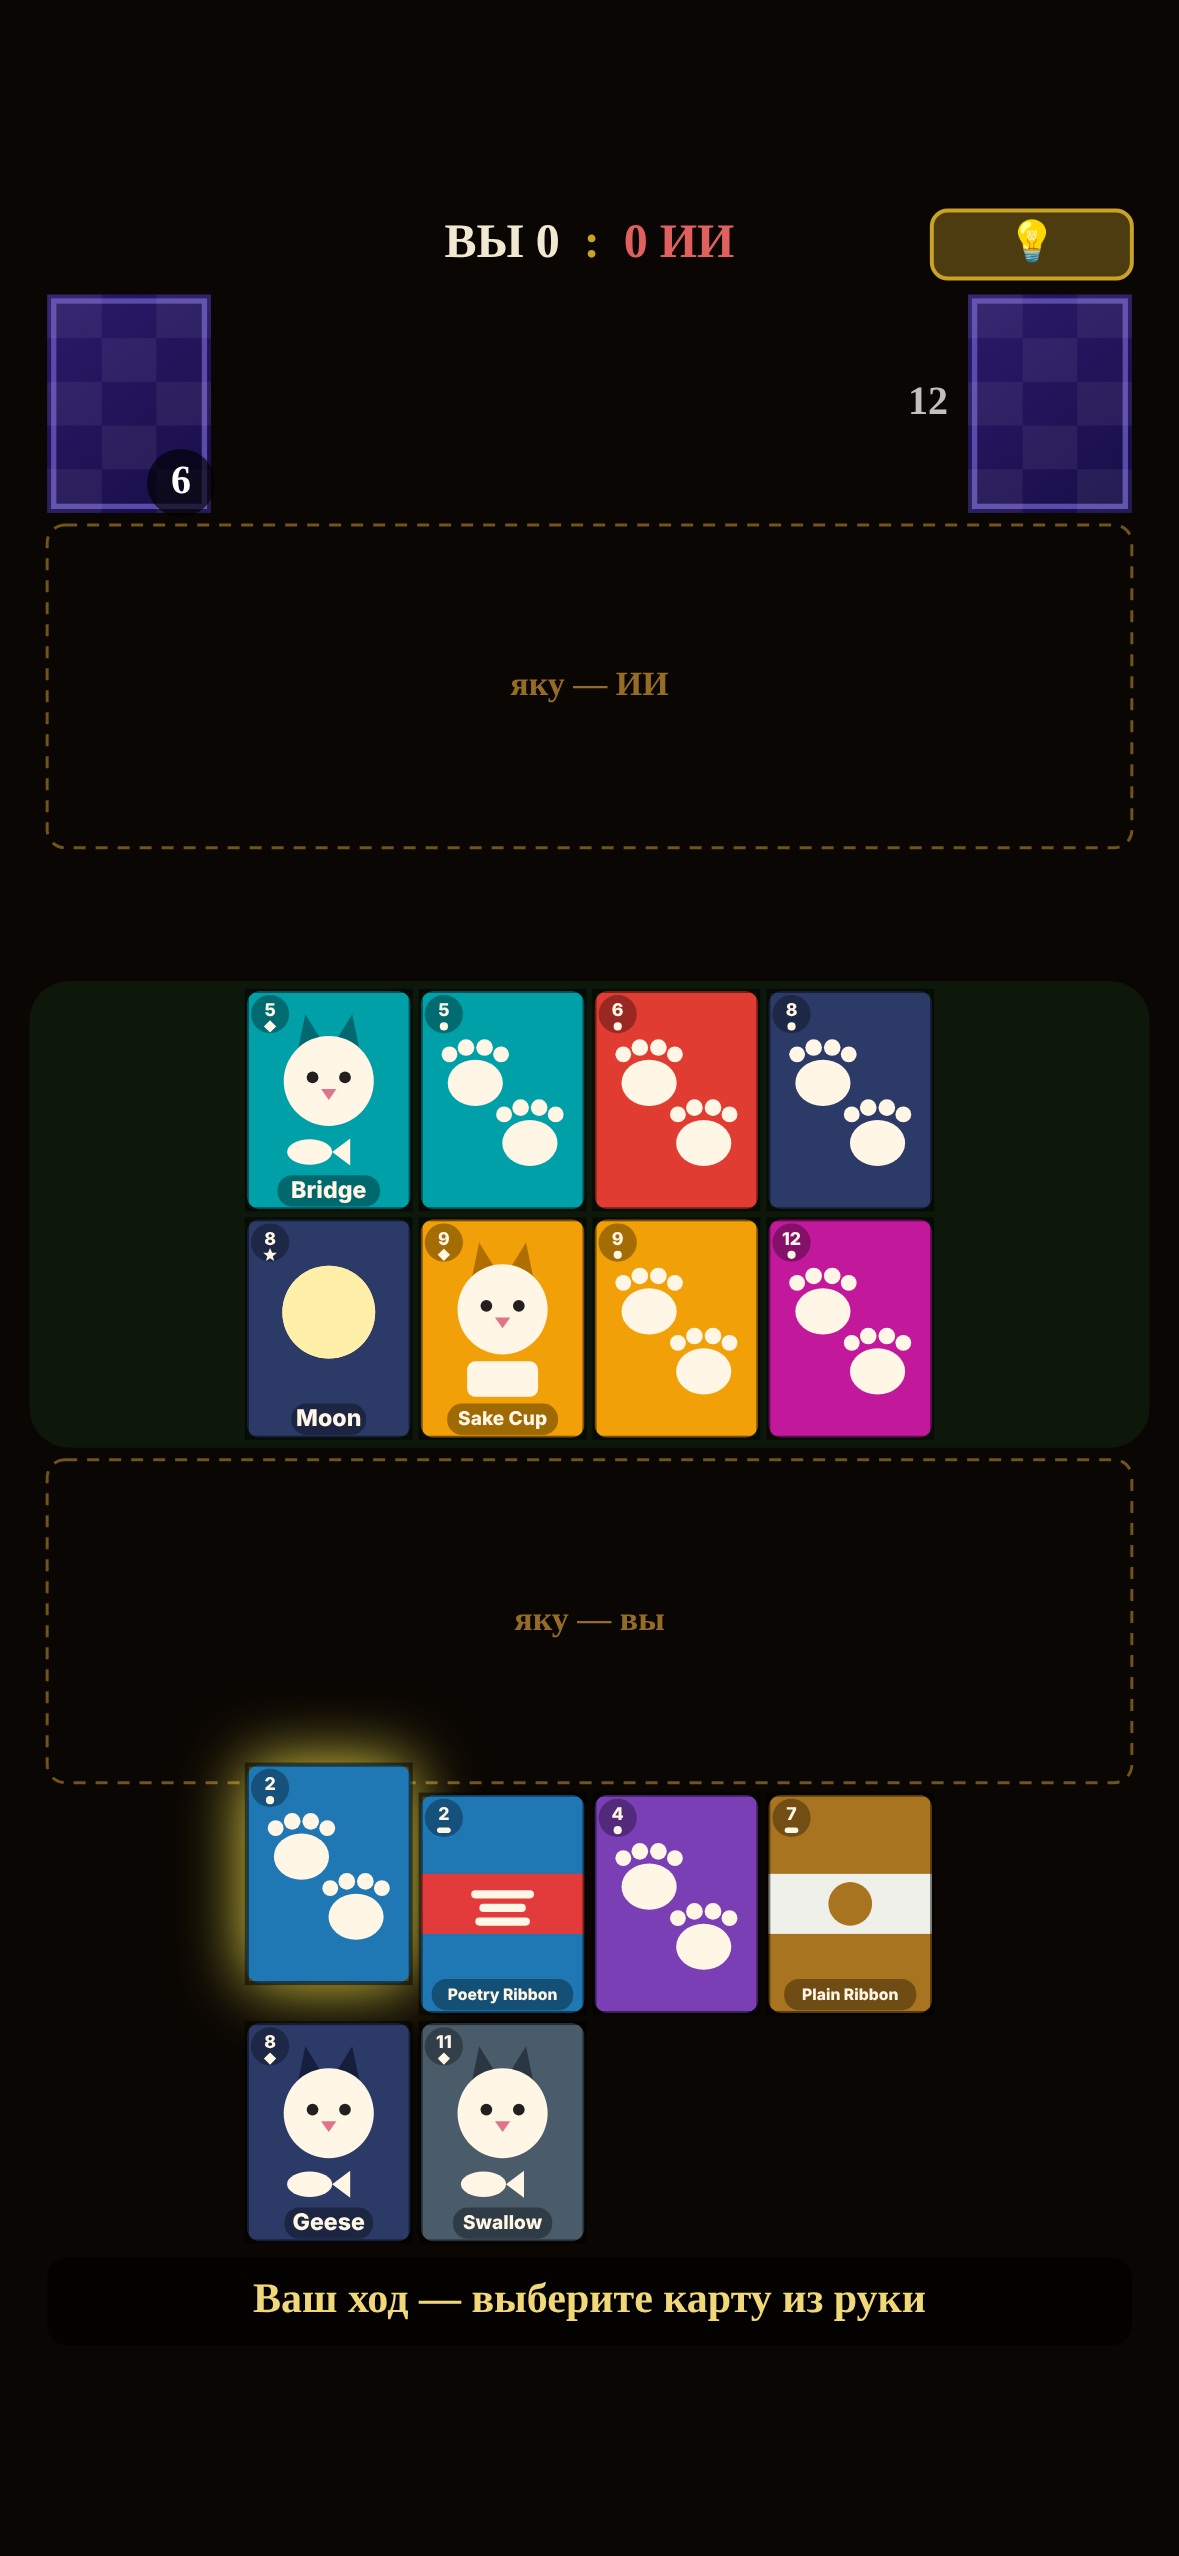
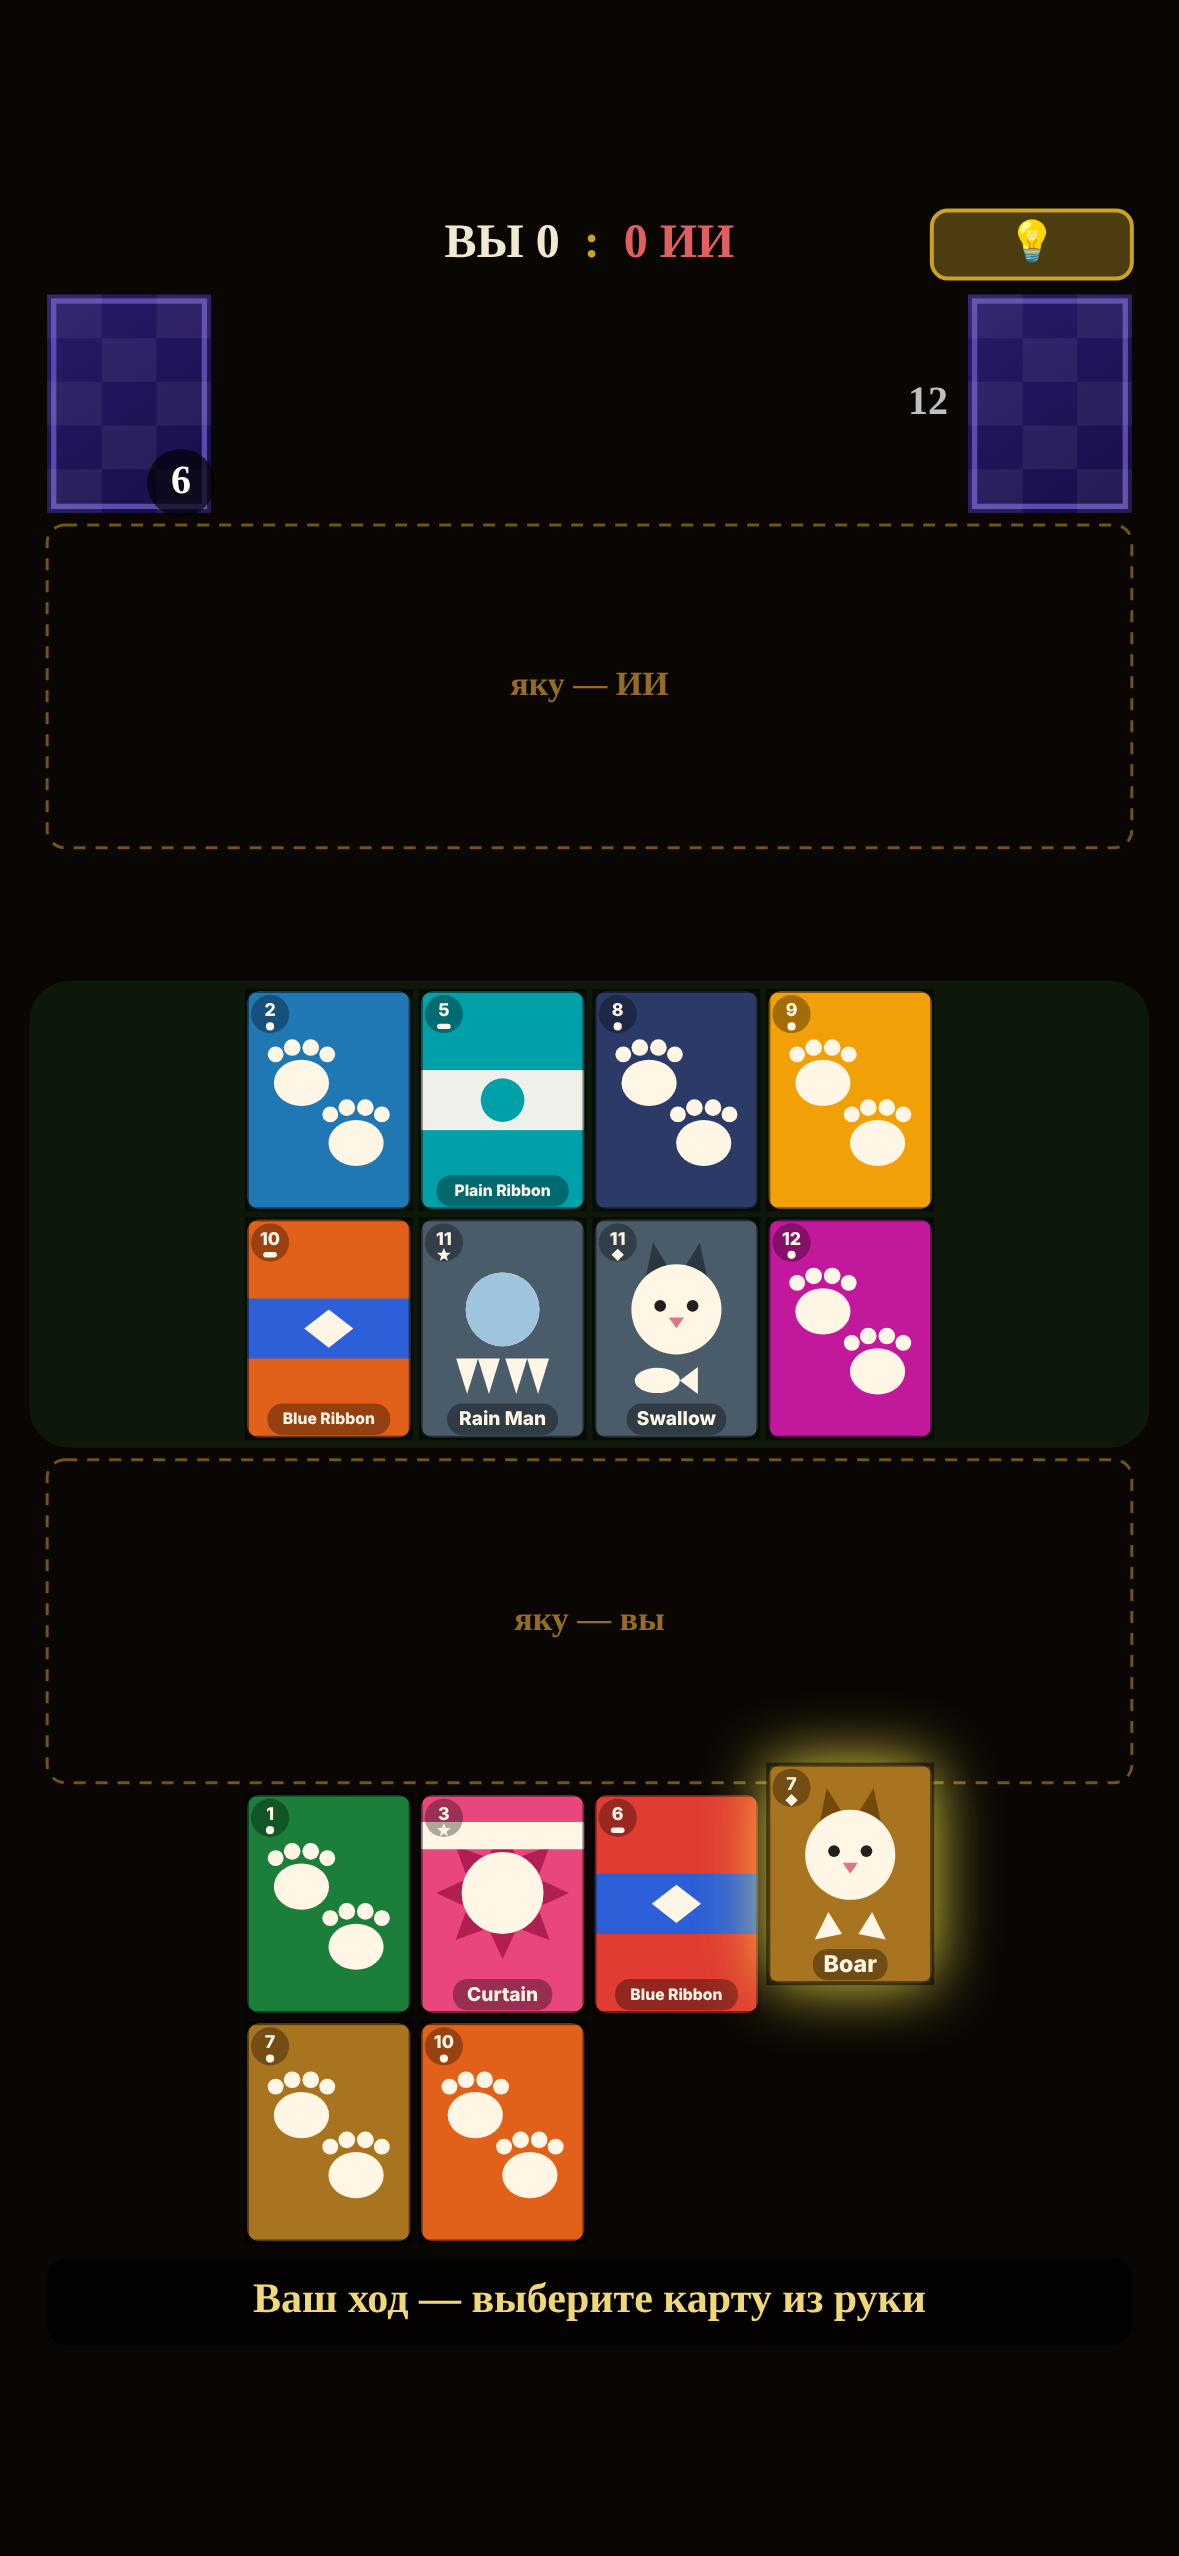
UI: 4 карты и меньше на столе собираются в ряд по центру; карты стола переезжают плавно
Claude-Session: https://claude.ai/code/session_01YWBhc7XyH6Quahzkpjq16G

Changed region(s): [[0.1527, 0.6491, 0.8244, 0.8963], [0.1832, 0.3709, 0.7939, 0.5872]]

diff --git a/index.html b/index.html
@@ -339,6 +339,14 @@ function tableLayout(L){
     return sorted.map((card,i)=>({card,w,h,
       x:x0+(i%TABLE_COLS)*(w+B_GAP), y:L.table.y+Math.floor(i/TABLE_COLS)*(h+B_GAP)}));
   }
+  // 4 карты и меньше — собираются в один ряд по центру стола (места уплотняются
+  // в верхний ряд, чтобы при росте стола раскладка продолжилась без дыр)
+  if(G.table.length<=4){
+    const sorted=[...G.table].sort((a,b)=>slot[a.id]-slot[b.id]);
+    sorted.forEach((c,i)=>slot[c.id]=TABLE_SLOTS[i]);
+    const n=sorted.length, x0=(L.VW-(n*BCW+(n-1)*B_GAP))/2, y=L.table.y+(L.table.h-BCH)/2;
+    return sorted.map((card,i)=>({card,w:BCW,h:BCH,x:x0+i*(BCW+B_GAP),y}));
+  }
   const cols=Math.max(4,...G.table.map(c=>slot[c.id]%TABLE_COLS+1));
   const x0=(L.VW-(cols*BCW+(cols-1)*B_GAP))/2;
   return G.table.map(card=>{const s=slot[card.id];
@@ -373,9 +381,14 @@ function slide(key,from,to,ms=320){
 // Взятые карты улетают в блок яку: запоминаем, где карта была видна в прошлом
 // кадре (стол, выехавшая карта, рука), и для новой взятой карты запускаем полёт
 // оттуда в центр блока яку владельца с уменьшением и затуханием.
-const LASTPOS={}, FLIGHTS=[]; let prevCap=null;
+const LASTPOS={}, FLIGHTS=[], TPOS={}; let prevCap=null;
 function noteCaptures(L){
   const cur={p:new Set(G.pCap.map(c=>c.id)),a:new Set(G.aCap.map(c=>c.id))};
+  // Новый раунд (взятые обнулились): номера карт те же, старые позиции не нужны
+  if(prevCap&&(cur.p.size<prevCap.p.size||cur.a.size<prevCap.a.size)){
+    for(const k in LASTPOS) delete LASTPOS[k];
+    for(const k in TPOS) delete TPOS[k];
+  }
   if(prevCap){
     [['p',G.pCap,L.cellsP],['a',G.aCap,L.cellsAI]].forEach(([k,cap,r])=>{
       cap.forEach(c=>{ if(!prevCap[k].has(c.id)&&LASTPOS[c.id]){
@@ -478,8 +491,26 @@ function drawFloating(x,y,w,h,card,col){
   drawCard(x,y,card,true,false,w,h);ct.restore();
   ct.strokeStyle=col;ct.lineWidth=6;ct.strokeRect(x-4,y-4,w+8,h+8);
 }
+// Карты стола переезжают на новое место плавно (перестройка ряда, центрирование);
+// карта, только что легшая на стол из руки или из центра, долетает оттуда.
+function tableMove(id,x,y){
+  const now=performance.now(), ms=300;
+  let t=TPOS[id];
+  if(!t){ const f=LASTPOS[id]||{x,y}; t=TPOS[id]={fx:f.x,fy:f.y,tx:x,ty:y,t0:now}; }
+  else if(t.tx!==x||t.ty!==y){ const c=tablePosAt(t,now,ms); Object.assign(t,{fx:c.x,fy:c.y,tx:x,ty:y,t0:now}); }
+  const c=tablePosAt(t,now,ms);
+  if((c.x!==x||c.y!==y)&&!animFrame) animFrame=requestAnimationFrame(()=>{animFrame=0;draw();});
+  return c;
+}
+function tablePosAt(t,now,ms){
+  const p=Math.min(1,(now-t.t0)/ms), e=1-Math.pow(1-p,3);
+  return p>=1?{x:t.tx,y:t.ty}:{x:t.fx+(t.tx-t.fx)*e, y:t.fy+(t.ty-t.fy)*e};
+}
 function drawBoardTable(L){
-  tableLayout(L).forEach(({card,x,y,w,h})=>{
+  const onTable=new Set(G.table.map(c=>c.id));
+  for(const id in TPOS) if(!onTable.has(+id)) delete TPOS[id];
+  tableLayout(L).forEach(t=>{
+    const {card,w,h}=t, {x,y}=tableMove(card.id,t.x,t.y);
     LASTPOS[card.id]={x,y};
     const isTarget=G.aiTargets&&G.aiTargets.some(t=>t.id===card.id);
     if(isTarget){

diff --git a/docs/ui-layout.md b/docs/ui-layout.md
@@ -18,6 +18,10 @@
   5–6. Карта держит своё место (`G.tslot`), новая занимает первое свободное. Сетка
   центрируется по числу занятых колонок (минимум 4): появилась 5-я — сетка
   съезжает на полкарты влево, ушла — возвращается. Больше 12 — 3 ряда ужатых.
+  **4 карты и меньше** — собираются в один ряд по центру стола (места уплотняются
+  в верхний ряд, при росте стола раскладка продолжается без дыр). Перестройки
+  плавные: карты стола переезжают на новое место за 300 мс, карта, легшая на стол
+  из руки или из центра, долетает оттуда (`tableMove`).
 - **Шапка:** счёт матча «ВЫ n : m ИИ» по центру, 💡 справа; «Раунд N · до 30» убран
   по слову пользователя, слева только «★ Мяу-Мяу», когда объявлено.
   Отдельные счётчики очков раунда в ячейках убраны.
